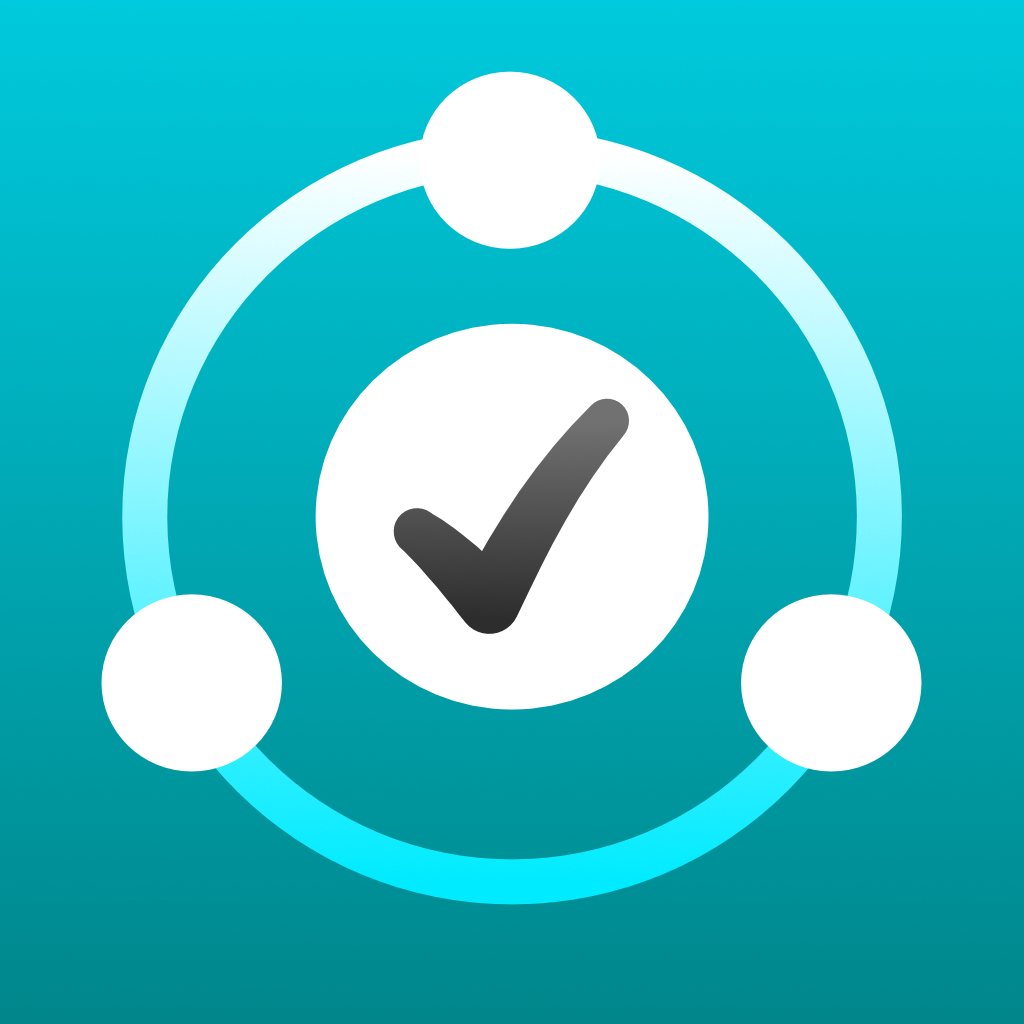
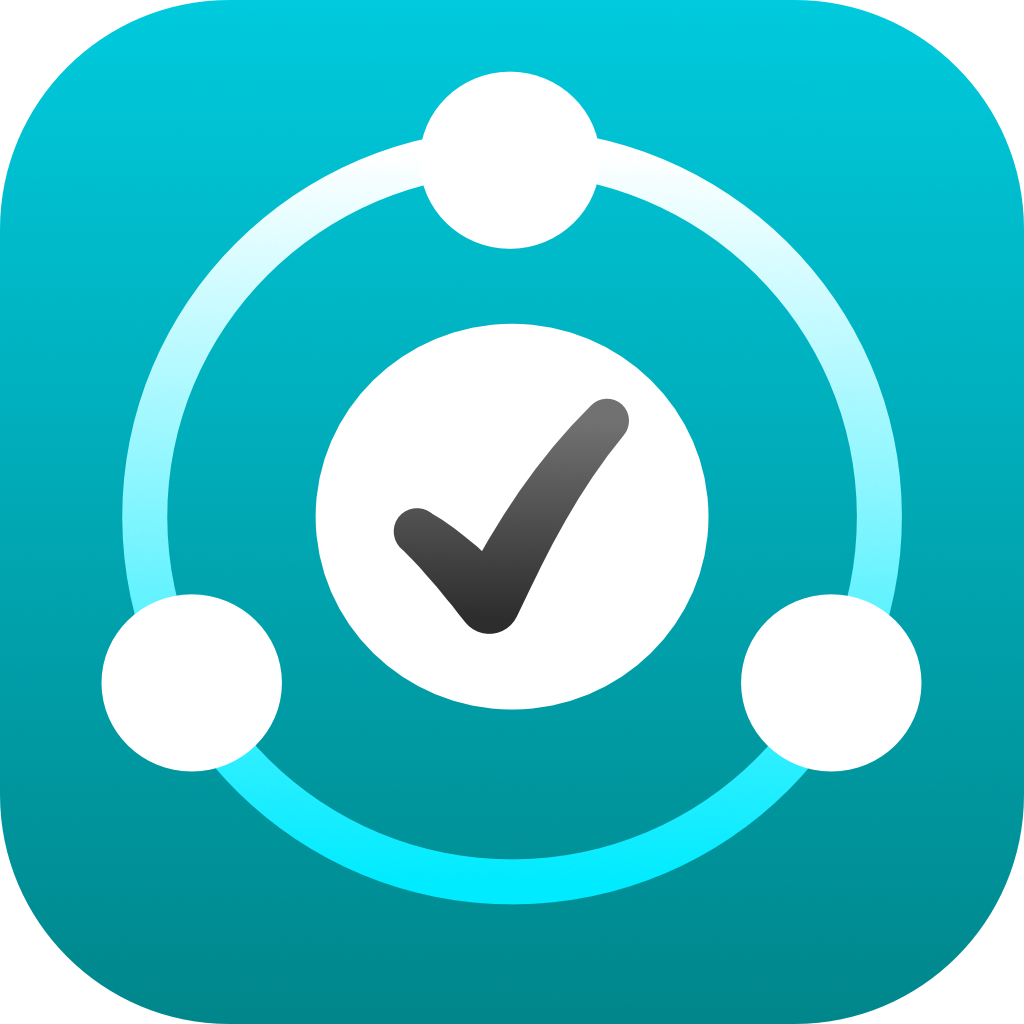
content updates

diff --git a/eleventy.config.images.js b/eleventy.config.images.js
@@ -1,5 +1,6 @@
 const path = require("path");
 const eleventyImage = require("@11ty/eleventy-img");
+const metadata = require("./_data/metadata");
 
 function relativeToInputPath(inputPath, relativeFilePath) {
 	let split = inputPath.split("/");
@@ -7,6 +8,18 @@ function relativeToInputPath(inputPath, relativeFilePath) {
 
 	return path.resolve(split.join(path.sep), relativeFilePath);
 
+}
+
+function relativeToSite(relativeFilePath) {
+	return relativeFilePath.replace("SITE:", metadata.url)
+}
+
+function isSiteUrl(url) {
+	if (url.startsWith("SITE:")) {
+		return true;
+	} else {
+		return false;
+	}
 }
 
 function isFullUrl(url) {
@@ -26,7 +39,9 @@ module.exports = function(eleventyConfig) {
 		// Warning: Avif can be resource-intensive so take care!
 		let formats = ["avif", "webp", "auto"];
 		let input;
-		if(isFullUrl(src)) {
+		if (isSiteUrl(src)) {
+			input = relativeToSite(src);
+		} else if (isFullUrl(src)) {
 			input = src;
 		} else {
 			input = relativeToInputPath(this.page.inputPath, src);

diff --git a/public/css/index.css b/public/css/index.css
@@ -275,6 +275,20 @@ h2 + .header-anchor {
 	object-fit: contain;
 }
 
+
+.img-container-50 img {
+	height: 49%;
+	width:49%;
+	object-fit: contain;
+}
+
+
+.img-container-40 img {
+	height: 40%;
+	width: 40%;
+	object-fit: contain;
+}
+
 .app-header-container {
     display: flex;
     align-items: center;
@@ -299,6 +313,7 @@ h2 + .header-anchor {
 	list-style: none;
 	padding: 0;
 	padding-left: 1.5rem;
+	margin-top: 3rem;
 }
 .app-list-entry {
 	display: flex;
@@ -311,4 +326,15 @@ h2 + .header-anchor {
 
 .app-list-entry p {
 	margin: 0;
+}
+
+footer {
+	display: flex;
+	gap: 1em 5em;
+	flex-wrap: wrap;
+	justify-content: space-around;
+	align-items: center;
+	padding: 1em;
+	border-top: 1px dashed var(--color-gray-20);
+	margin-top: 10em;
 }

diff --git a/_data/metadata.js b/_data/metadata.js
@@ -6,6 +6,6 @@ module.exports = {
 	author: {
 		name: "Rob Owen",
 		email: "hello@robowen.io",
-		url: "https://robowen.io/about-me/"
+		url: "https://robowen.io/about/"
 	}
 }

diff --git a/content/blog/2024-08-16-website_launch.md b/content/blog/2024-08-16-website_launch.md
@@ -4,24 +4,20 @@ description: A new space for my app websites and personal content.
 date: 2024-08-16
 ---
 
-Welcome to the new website. I'll be using this site to host App-related content as well as personal blog posts and news updates. This post covers some of the tech I've gone with. Read on if interested!
+Welcome to the new website. I'll be using this site to host App-related content as well as personal blog posts and news updates. This post covers some of the tech. Read on if interested.
 
 ## The Technology
 
-For me, a static website beats a web server architecture for this sort of thing every time - better scalability, lower latency, far lower running costs, few security concerns, the list goes on. I can write markdown and turn that into content with no WYSIWYG interface to learn.
+This site is built on [eleventy](https://www.11ty.dev), a javascript-based static site generator. I wanted a static website where I could author cleanly versioned markdown files on my computer, without needing to learn any custom WYSIWIG editor. Any static site generator would have been suitable, so don't take this as a technology recommendation. I'm using [Vercel](https://vercel.com/) for hosting.
 
-This site is built on [eleventy](https://www.11ty.dev), a static site generator built in javascript. Any static site generator would have been suitable, so don't take this as a technology recommendation. I'm using [Vercel](https://vercel.com/) for hosting.
-
-My experience of 11ty so far has been good. I've built on top of the [Eleventy Base Blog](https://github.com/11ty/eleventy-base-blog) which has help me bootstrap a working setup without re-inventing the wheel. The builds are fast and I can write in markdown syntax on my local machine.
+My experience of 11ty so far has been good. I've building on top of the [Eleventy Base Blog](https://github.com/11ty/eleventy-base-blog) which has help me bootstrap a working setup without re-inventing the wheel. The builds are fast and I can write in markdown syntax on my local machine.
 
 ## Why change?
 
-First, a bit of history. When setting out as indepedent app developer in 2022, I had a lot to learn: iOS development, Swift, SwiftUI & numerous other Apple SDKs. Design skills and marketing were also new to me. I knew that every app needed a supporting infrastructure, a product pitch, marketing, website and some way of manning the support inbox.
-
-I knew web could be a distraction. I've professional experience in this area and have seen various web projects start-to-finish. It risked become a comfortable distraction from the hard new stuff.
+When setting out as indepedent app developer in 2022, I knew web could be a distraction. I've professional experience in this area and it risked become a comfortable distraction from learning the new skills I needed as an Apple developer.
 
 An attractive developer-friendly website was a risk in the early days, so I started with wordpress - a platform I'm deeply unhappy to use. This was a good thing for my app development. I'm not saying wordpress is _bad_, but it's a poor fit for someone experienced in static websites, CI/CD, code-driven config and version controlled updates.
 
-_Now_ things have moved forward. I am about to launch my third indie app and want to simplify and consolidate the websites that support the core app business, so I can spend less time & money on the websites while gaining more control and flexibility to do what I need. Out with wordpress.
+_Now_ things have moved forward. I am about to launch my third indie app and want to simplify and consolidate the websites that support the core app business, so I can spend less time & money on the websites while gaining more control and flexibility to do what I need. When you don't need server-side processing, having a web server can be wasteful and costly. Out with wordpress.
 
 I'll be updating the website content, design & technical features over time.

diff --git a/content/apps/orbit/press.md b/content/apps/orbit/press.md
@@ -5,4 +5,34 @@ eleventyNavigation:
   parent: Orbit
   key:  press
 ---
-This is a draft press kit
+
+Orbit Pre-release Press Kit
+
+## App Icon
+
+<div class="img-container-50">
+  {% image "orbit-icon-light.png", "App Icon", "40em" %}
+  {% image "orbit-icon-dark2.png", "App Icon", "40em" %}
+</div>
+
+
+Download uncropped icons:
+- <a href="/img/orbit-icon-light.png" download>Light mode</a>
+- <a href="/img/orbit-icon-dark.png" download>Dark mode (background)</a>
+- <a href="/img/orbit-icon-dark2.png" download>Dark mode (transparent)</a>
+
+## Description
+
+Orbit is an upcoming iOS 18 app for planning your day. Priortize, refine and complete key tasks without the overheads of managing endless tasks lists. Orbit keeps you focused with a clear UI, deep system integrations, a daily review flow and helpful friction.
+
+Orbit is designed to stand our from GTD-inspired task managemnt apps. Instead of bringing professional-style project management into your personal life, Orbit encourages you to focus on what's important, checking in daily to keep yourself on track. You'll find no due dates, only a current short list.
+
+You can use Orbit as a standalone daily prioritization app, or integrate it with your existing task management workflow. Orbit supports rich App Intents, Interactive Widgets and new iOS 18 Controls.
+
+## Pricing
+
+TBC.
+
+## Screenshots
+
+TBC.

diff --git a/content/apps/homeui/press.md b/content/apps/homeui/press.md
@@ -1,5 +1,5 @@
 ---
-title: HomeUI
+title: HomeUI Press Kit
 draft: false
 eleventyNavigation:
   parent: HomeUI
@@ -10,9 +10,14 @@ Last updated for HomeUI version 1.5.
 ## App Icon
 ### visionOS
 
-<div class="img-container">
-  {% image "./icon.png", "App Icon", "40em" %}
+<div class="img-container-50">
+  {% image "homeui-icon-square.png", "App Icon", "40em" %}
+  {% image "homeui-icon-circle.png", "App Icon", "40em" %}
 </div>
+
+Download full resolution icons:
+- <a href="/img/homeui-icon-circle.png" download>Circle</a>
+- <a href="/img/homeui-icon-square.png" download>Square (uncropped)</a>
 
 ## Description
 
@@ -22,17 +27,17 @@ Built from the ground-up for visionOS, HomeUI places camera screens and interact
 
 HomeUI supports the following HomeKit accessories, including three-dimensional spatial controls for Lights:
 
-Cameras
-Lights
-Switches
-Outlets
-Fans
-Locks
-& more via Scenes
+- Cameras
+- Lights
+- Switches
+- Outlets
+- Fans
+- Locks
+- & more via Scenes
 
 ## Pricing
 
-HomeUI is a one-off purchase costing $9.99.
+HomeUI is a one-off purchase costing 9.99 USD and equivalent in other countries.
 
 ## Screenshots
 

diff --git a/content/apps/homeui/homeui.md b/content/apps/homeui/homeui.md
@@ -27,4 +27,4 @@ HomeUI brings live HomeKit camera feeds to your Apple Vision Pro. Set up interac
   {% image "./homeui-main-window.png", "A screenshot of HomeUI running on visionOS showing the main configuration window and several controls", "40em" %}
 </div>
 
-<a href="https://apps.apple.com/gb/app/octoscope-electricity-gas/id6447790899" style="display: inline-block; overflow: hidden; border-radius: 13px; width: 250px; height: 83px;"><img src="https://tools.applemediaservices.com/api/badges/download-on-the-app-store/white/en-us?size=250x83&amp;releaseDate=1690416000" alt="Download on the App Store" style="border-radius: 13px; width: 250px; height: 83px;"></a>
+<a href="https://apps.apple.com/app/homeui/id6477536116" style="display: inline-block; overflow: hidden; border-radius: 13px; width: 250px; height: 83px;"><img src="https://tools.applemediaservices.com/api/badges/download-on-the-app-store/white/en-us?size=250x83&amp;releaseDate=1690416000" alt="Download on the App Store" style="border-radius: 13px; width: 250px; height: 83px;"></a>

diff --git a/content/about/index.md b/content/about/index.md
@@ -1,9 +1,14 @@
 ---
 layout: layouts/base.njk
 eleventyNavigation:
-  key: About Me
+  key: About
   order: 3
 ---
 # About Me
 
-Bio is TODO. Check back later.
+{% image "me.png", "A photo of Rob" %}
+
+## Hello, I'm Rob.
+
+I'm a professional software engineer & Dad living near Cambridge in the UK. I'm deeply int
+erested in environemntal science, climate change and energy systems. On the side I build the apps you can find on this site, enjoy gaming and running.
